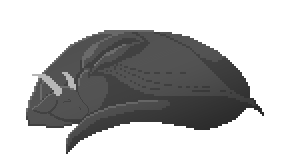
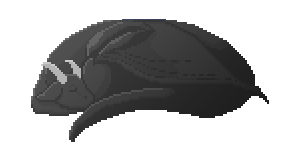
2/24/2020 update
mostly art stuff, small update today

Changed region(s): [[0.06, 0.0938, 0.9, 0.9688], [0.3, 0.5625, 0.36, 0.6562]]

diff --git a/clickerGame/index.html b/clickerGame/index.html
@@ -3,7 +3,7 @@
 
 <head>
     <meta charset="UTF-8">
-    <meta name="viewport" content="width=device-width, initial-scale=1.0">
+    <meta name="viewport" content="width=device-width, user-scalable=no">
     <meta http-equiv="X-UA-Compatible" content="ie=edge">
     <link rel="stylesheet" href="clicker_ss.css">
     <title>dragon clicker</title>
@@ -133,6 +133,10 @@
         <p>Thanks for checking out my game! This is currently a work in progress, and I will be attempting to update daily until I feel like the game is in a playable and balanced state. <br><br> If you like my work, consider donating with the link at the
             top!
         </p>
+        <ol><u>Update 2/24/2020</u>
+            <li> slapped together a <a href="https://trello.com/b/J6pqmDN8/clicker-game">trello board</a> where you can check out a more in depth list of things that are planned and being worked on</li>
+            <li>updated the dragon art! now slightly animated.</li>
+        </ol>
         <ol><u>Update 2/23/2020</u>
             <li>Added offline progression, for real this time!</li>
             <li>updated the placeholder dragon. Not final art.</li>
@@ -161,8 +165,8 @@
     </div>
     <button id="optionsBtn" class="optionsBtn"></button>
     <div id="options" class="options">
-        <input type="checkbox" checked="" id="textJitter">Gold text jitter off<br>
-        <input type="checkbox" checked="" id="updateToggle">Show update pane<br>
+        <input type="checkbox" id="textJitter">Gold text jitter off<br>
+        <input type="checkbox" id="updateToggle">Show update pane<br>
         <button id="deleteSaveBtn" class="deleteSaveBtn">Delete Save</button>
     </div>
 
@@ -348,12 +352,12 @@
         //Item Objs-------------
         //type, cost, tooltip title, tooltip description, critical chance increase, additional crit multiplier
         //Flat Upgrade Items
-        const ironSwordObj = new shopItem(ironSword, 600, "Iron Sword", "Not sure what you were using before...\n\n+1 Gold per click", 0, 0)
-        const steelSwordObj = new shopItem(steelSword, 6000, "Steel Sword", "A slight improvment\n\n+1 Gold per click\n+25% more gold on crit", 0, 0.25)
-        const boneSwordObj = new shopItem(boneSword, 60000, "Bone Sword", "Numbers don't lie.\n\n+1 Gold per click\n+1% crit rate\n+25% more gold on crit", 1, 0.25)
-        const greatSwordObj = new shopItem(greatSword, 600000, "Great Sword", "It's great.\n\n+1 Gold per click\n+1% crit rate\n+25% more gold on crit", 1, 0.25)
+        const ironSwordObj = new shopItem(ironSword, 600, "Iron Sword", "A basic iron sword. Cheap and effective.\n\n+1 Gold per click", 0, 0)
+        const steelSwordObj = new shopItem(steelSword, 6000, "Steel Sword", "A slight improvment.\n\n+1 Gold per click\n+25% more gold on crit", 0, 0.25)
+        const boneSwordObj = new shopItem(boneSword, 60000, "Bone Sword", "The shop keeper swears it's stronger than steel...\nNumbers don't lie, I guess.\n\n+1 Gold per click\n+1% crit rate\n+25% more gold on crit", 1, 0.25)
+        const greatSwordObj = new shopItem(greatSword, 600000, "Great Sword", "It's great.\n\n+1 Gold per click\n+3% crit rate\n+50% more gold on crit", 3, 0.5)
 
-        const etherealEdgeObj = new shopItem(etherealEdge, 9999999999, "Ethereal Edge", "On display as the shops most prestigious weapon.\nThe blade looks as if it could cut through anything.\n\n+1 True damage (Not yet implemented.)\n+5% crit rate\n+200% more gold on crit", 5, 2)
+        const etherealEdgeObj = new shopItem(etherealEdge, 9999999999, "Ethereal Edge", "On display as the shops most prestigious weapon.\nThe blade looks as if it could cut through anything.\n\n+1 True damage (Not yet implemented.)\n+10% crit rate\n+300% more gold on crit", 10, 3)
 
         //Rate Upgrade Items
         const goldenLoopObj = new shopItem(goldenLoop, 10000, "Golden Loop", "Round it goes, gold through and through\nnever ending...\n\n+1% of your GPS per click", 0, 0)
@@ -470,26 +474,6 @@
             console.log('saved')
         }
 
-        function rLoadTest(saveVarCost, saveVarCount, obj, clist) {
-            if (typeof saveVarCost !== "undefined") {
-                obj.cost = saveVarCost
-            }
-            if (typeof saveVarCount !== "undefined") {
-                obj.count = saveVarCount
-            }
-            if (clist.search("guildHidden") == -1) {
-                obj.update()
-            }
-
-
-        }
-
-        function iLoadTest(obj, clist) {
-            if (typeof clist !== "undefined") {
-                obj.type.classList = clist
-            }
-        }
-
         function loadGame() {
             var savegame = JSON.parse(localStorage.getItem("save"));
             if (savegame !== null) {
@@ -518,6 +502,26 @@
 
             }
 
+        }
+
+        function rLoadTest(saveVarCost, saveVarCount, obj, clist) {
+            if (typeof saveVarCost !== "undefined") {
+                obj.cost = saveVarCost
+            }
+            if (typeof saveVarCount !== "undefined") {
+                obj.count = saveVarCount
+            }
+            if (clist.search("guildHidden") == -1) {
+                obj.update()
+            }
+
+
+        }
+
+        function iLoadTest(obj, clist) {
+            if (typeof clist !== "undefined") {
+                obj.type.classList = clist
+            }
         }
 
         function deleteSave() {

diff --git a/clickerGame/clicker_ss.css b/clickerGame/clicker_ss.css
@@ -5,6 +5,11 @@
     font-style: normal;
 }
 
+a:link,
+a:visited {
+    color: rgb(241, 145, 1);
+}
+
 body {
     background-color: black;
     color: white;
@@ -296,7 +301,7 @@ ol {
     width: 300px;
     top: -80px;
     left: -150px;
-    background: url(art/dragon.png);
+    background: url(art/sleepyDergBubble.gif);
 }
 
 .playerArea {
